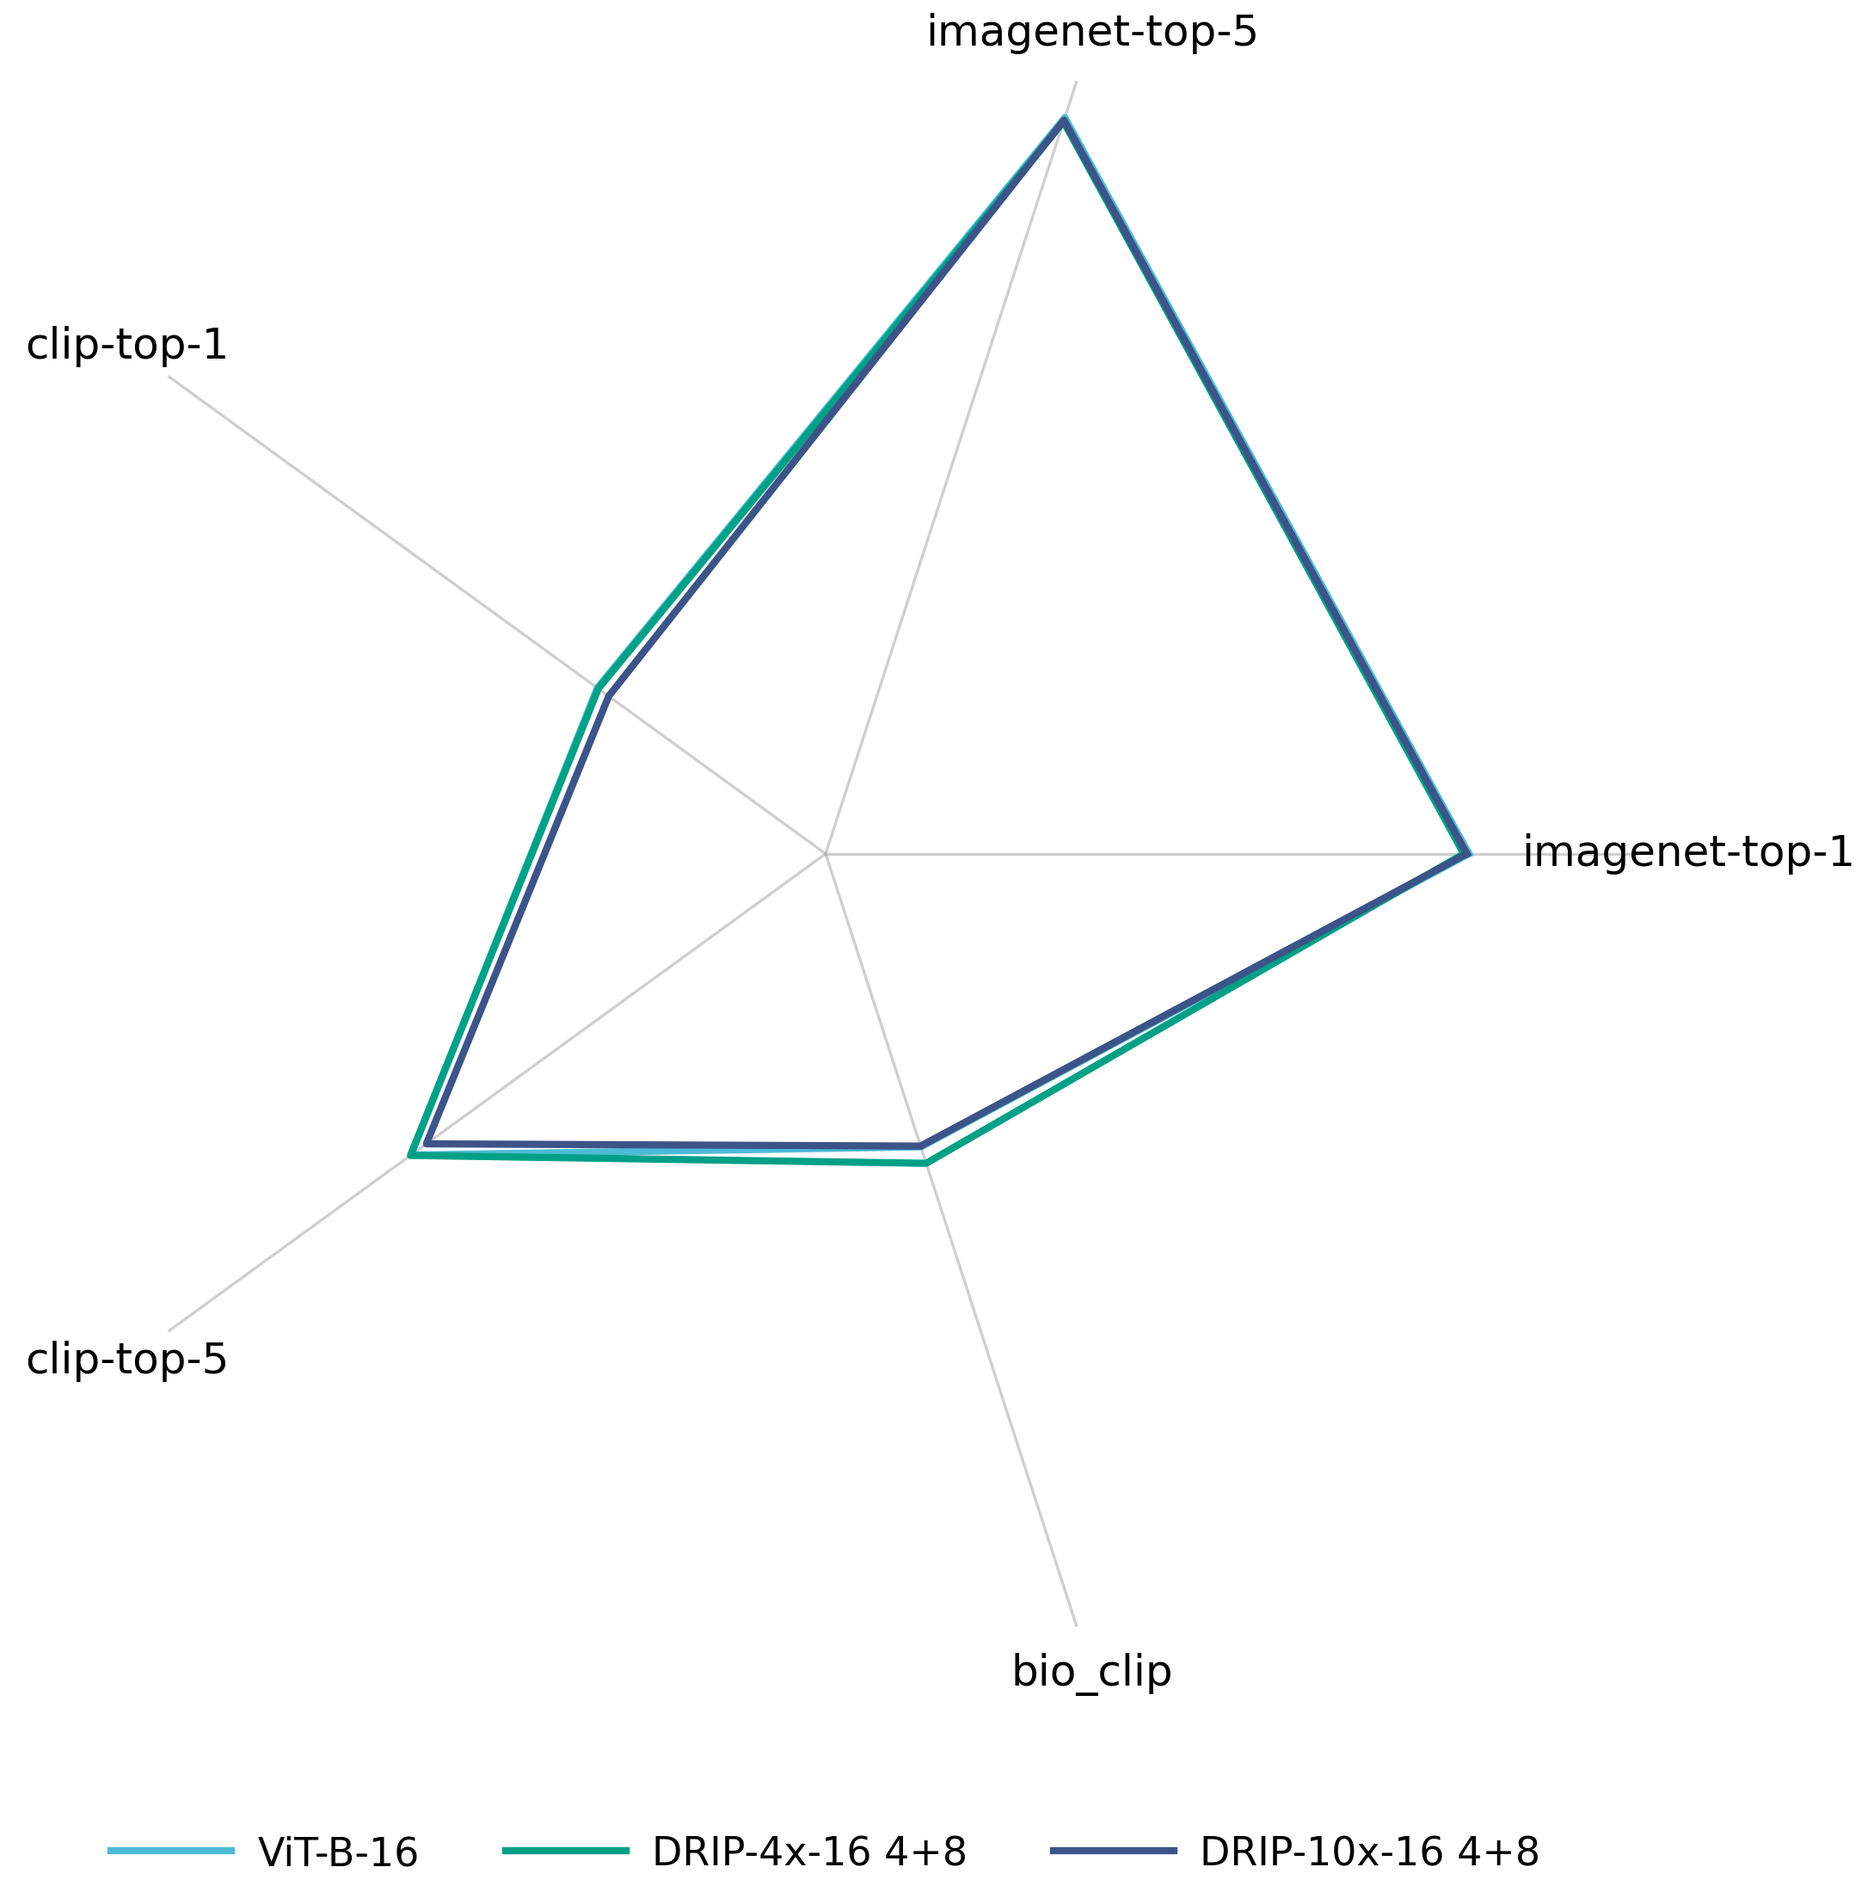
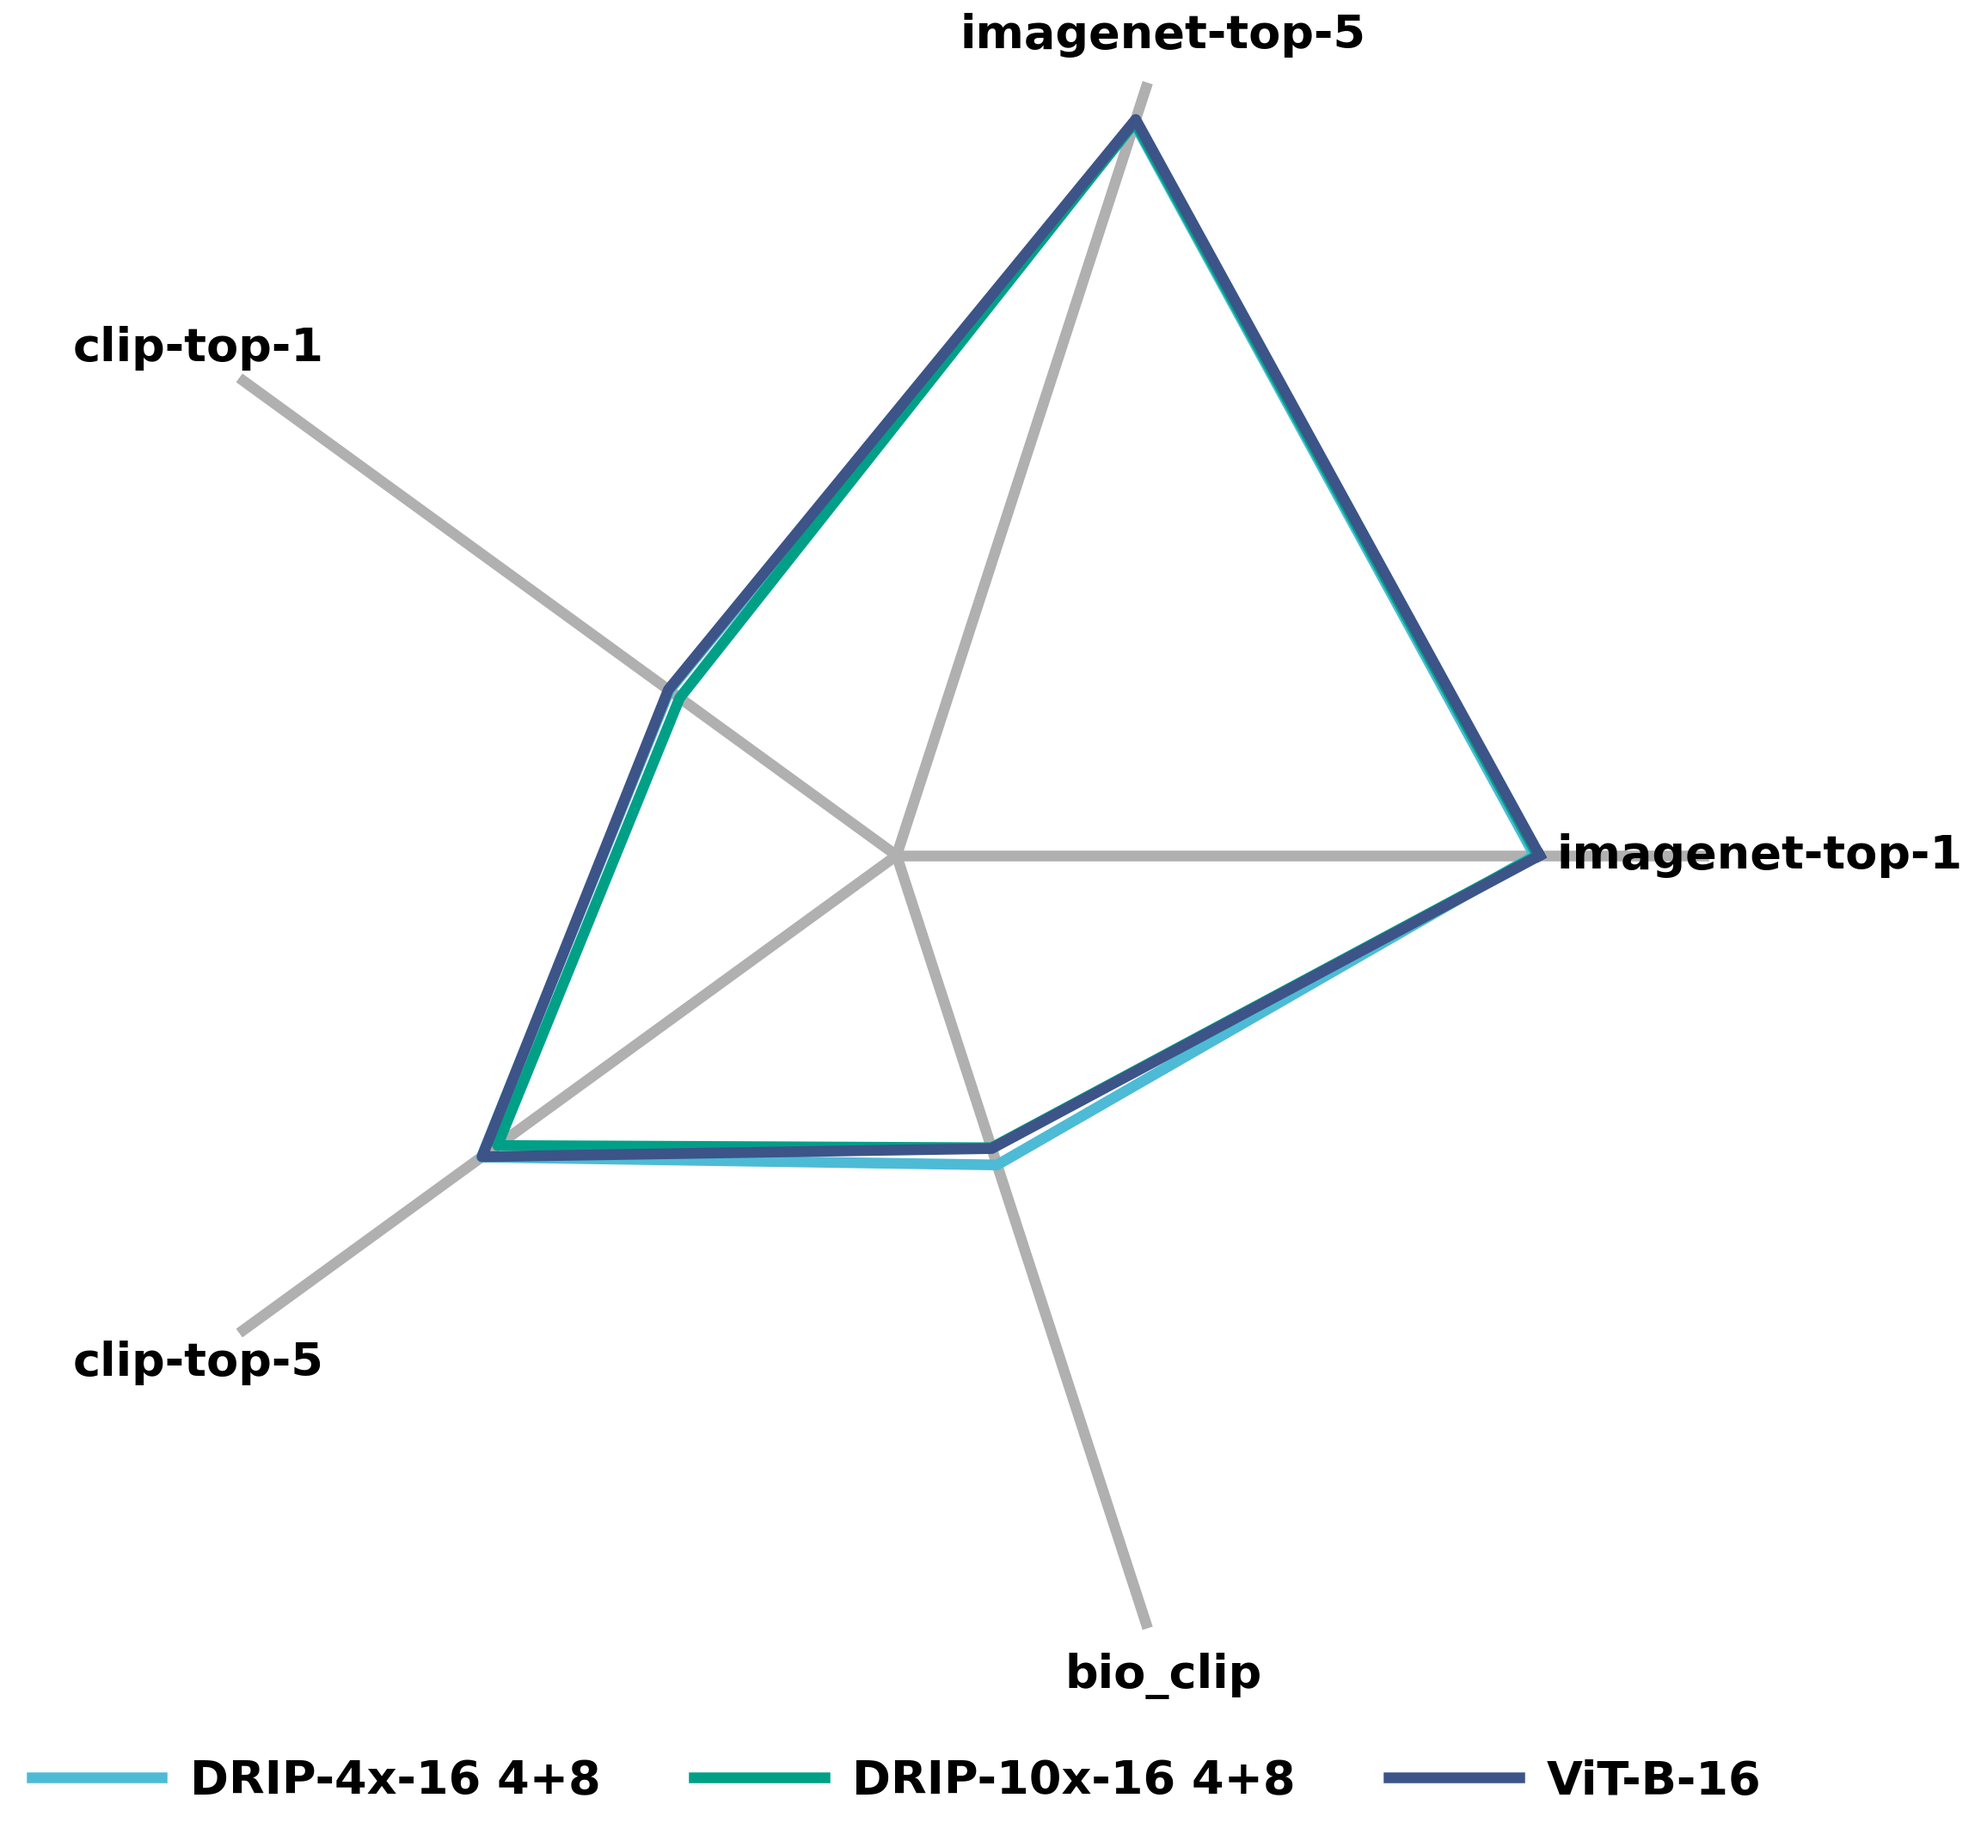
refine the radar chart

diff --git a/radar.py b/radar.py
@@ -28,10 +28,11 @@ def main(csv_path: Path):
 
     # --- styling: global rcParams + vibrant palette ---
     plt.rcParams.update({
-        "font.size": 12,
-        "axes.linewidth": 0.9,
-        "grid.linewidth": 0.8,
-        "grid.alpha": 0.6,
+        "font.size": 13,
+        "font.weight": "bold",         
+        "axes.linewidth": 3.0,
+        "grid.linewidth": 3.0,
+        "grid.alpha": 1.0,
     })
     palette = ["#E64B35", "#4DBBD5", "#00A087", "#3C5488",
                "#F39B7F", "#91D1C2", "#7E6148", "#B09C85"]
@@ -60,9 +61,9 @@ def main(csv_path: Path):
     # minimal rings + dashed reference at 0
     ax.set_yticks([-1, 0, 1])     # keep just a few rounds
     ax.set_yticklabels([])        # number-free
-    ax.yaxis.grid(True, linestyle=(0, (3, 3)), linewidth=0.8, alpha=0.6)
+    ax.yaxis.grid(True, linestyle=(0, (3, 3)), linewidth=2, alpha=0.6)
     theta = np.linspace(0, 2*np.pi, 512)
-    ax.plot(theta, np.full_like(theta, 0), linestyle="--", linewidth=1.0, alpha=0.7)
+    ax.plot(theta, np.full_like(theta, 0), linestyle="--", linewidth=2.0, alpha=0.7)
 
     # soften frame and tighten layout area
     ax.spines["polar"].set_visible(False)
@@ -73,20 +74,17 @@ def main(csv_path: Path):
     for _, row in df_z.iterrows():
         vals = row[metrics].astype(float).to_numpy()
         v_closed = close_loop(vals)
-        line, = ax.plot(angles_closed, v_closed, linewidth=2)
+        line, = ax.plot(angles_closed, v_closed, linewidth=3)
         handles.append(line)
         labels.append(row["Model"])
 
     # legend polish
-    leg = ax.legend(handles, labels, loc="upper center", bbox_to_anchor=(0.5, -0.08),
+    leg = ax.legend(handles, labels, loc="upper center", bbox_to_anchor=(0.5, -0.03),
                     ncol=min(3, len(labels)), frameon=False, handlelength=2.8, handletextpad=0.6)
-    for t in leg.get_texts():
-        t.set_fontsize(11)
 
     # save (tight crop)
     plt.savefig(f"{OUTPUT_STEM}.png", dpi=300, bbox_inches='tight', pad_inches=0.05)
-    plt.savefig(f"{OUTPUT_STEM}.svg", bbox_inches='tight', pad_inches=0.05)
-    print(f"✅ Saved: {OUTPUT_STEM}.png, {OUTPUT_STEM}.svg")
+    print(f"✅ Saved: {OUTPUT_STEM}.png")
 
 if __name__ == "__main__":
     if len(sys.argv) < 2:

diff --git a/src/LLaVA_wrapper/llava_local/model/multimodal_encoder/clip_encoder.py b/src/LLaVA_wrapper/llava_local/model/multimodal_encoder/clip_encoder.py
@@ -184,21 +184,28 @@ class ViTVisionTower(nn.Module):
             print(f"btw, device map is {device_map}")
             return
 
-        self.vision_tower: VisionTransformer = VisionTransformer(
-                image_size=self.image_size,
-                patch_size=self.patch_size,
-                width=self._hidden_size,
-                layers=12,
-                heads=self.num_heads,
-                mlp_ratio=self.mlp_ratio
-        )
+        if self.checkpoint_path.startswith("openai"):
+        
+            self.vision_tower = CLIPVisionModel.from_pretrained(self.checkpoint_path, device_map=device_map)
+            self.vision_tower.requires_grad_(False)
+        
+        else:
+            
+            self.vision_tower: VisionTransformer = VisionTransformer(
+                    image_size=self.image_size,
+                    patch_size=self.patch_size,
+                    width=self._hidden_size,
+                    layers=12,
+                    heads=self.num_heads,
+                    mlp_ratio=self.mlp_ratio
+            )
 
-        # FIXME: load the model
-        # option 1: load from the original CLIP checkpoint
-        load_vit_from_clip_checkpoint(self.vision_tower, self.checkpoint_path)
+            # FIXME: load the model
+            # option 1: load from the original CLIP checkpoint
+            load_vit_from_clip_checkpoint(self.vision_tower, self.checkpoint_path)
 
-        # option 2: load from the finetuned checkpoint
-        #load_finetuned_vision_tower(self.vision_tower, self.checkpoint_path)
+            # option 2: load from the finetuned checkpoint
+            #load_finetuned_vision_tower(self.vision_tower, self.checkpoint_path)
 
 
         device = "cuda" if torch.cuda.is_available() else "cpu"

diff --git a/src/LLaVA_wrapper/llava_local/model/multimodal_encoder/builder.py b/src/LLaVA_wrapper/llava_local/model/multimodal_encoder/builder.py
@@ -5,7 +5,7 @@ def build_vision_tower(vision_tower_cfg, **kwargs):
 
     # FIXME: all hardcoded. Need to be fixed later.
     USE_DTP = True
-    FINETUNING_MODE = False
+    FINETUNING_MODE = True
     BACKBONE = 'ViT'  # 'ViT' or 'XL'
 
     if USE_DTP:
@@ -17,6 +17,7 @@ def build_vision_tower(vision_tower_cfg, **kwargs):
         print("Using original ViT as the vision tower")
         print("🍟" * 20)
     
+    #checkpoint_path = "openai/clip-vit-base-patch16"
     #checkpoint_path = "/fs/scratch/PAS2836/yusenpeng_checkpoint/CLIP/ViT_B_16/checkpoints/epoch_15.pt"
     #checkpoint_path = "/fs/scratch/PAS2836/yusenpeng_checkpoint/CLIP/DRIP_4x_16_ViT_5_7/checkpoints/epoch_15.pt"
     checkpoint_path = "/fs/scratch/PAS2836/yusenpeng_checkpoint/CLIP/DRIP_4x_16_ViT_4_8/checkpoints/epoch_15.pt"
